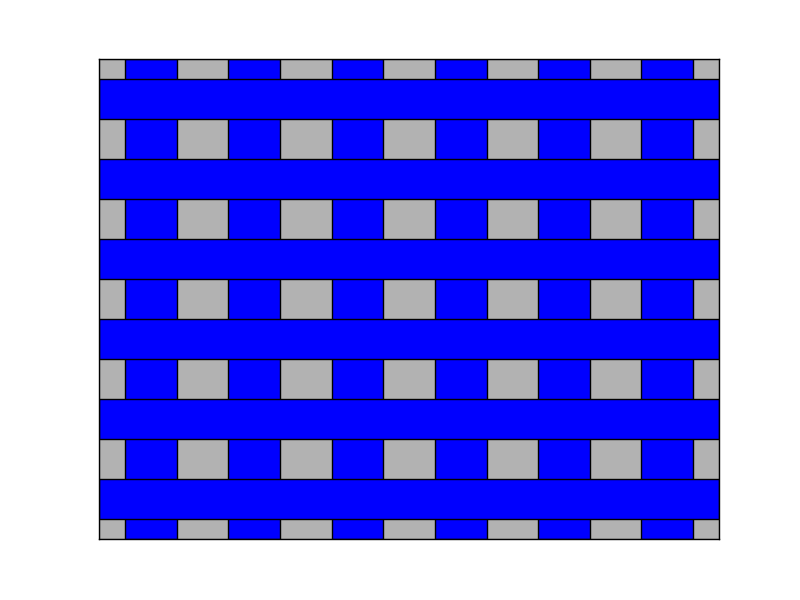
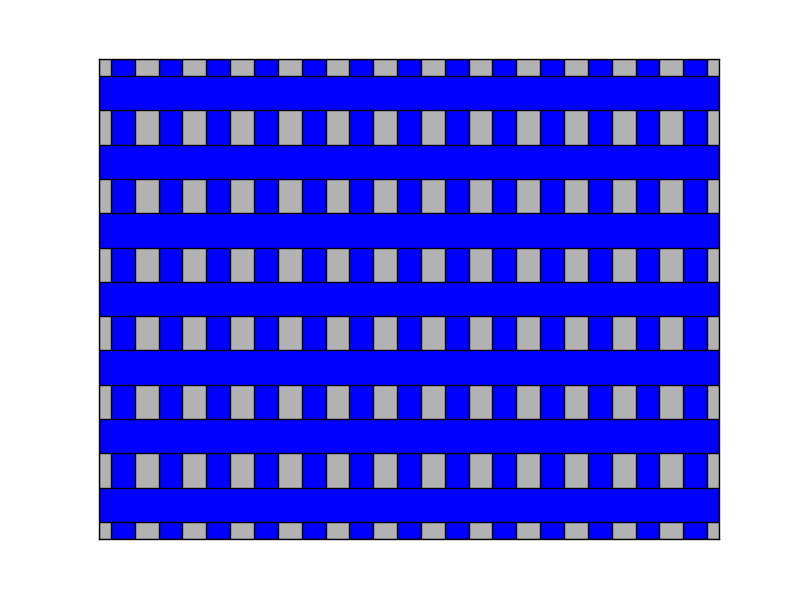
Encuesta con nuevos objetos

diff --git a/levels/interaccionParejas/game/client_types/player.js b/levels/interaccionParejas/game/client_types/player.js
@@ -537,25 +537,16 @@
         tipoObjetoEncuesta[3] = 'xol';
         tipoObjetoEncuesta[4] = 'xol';
         tipoObjetoEncuesta[5] = 'xol';
-        tipoObjetoEncuesta[6] = 'xol';
-        tipoObjetoEncuesta[7] = 'xol';
-        tipoObjetoEncuesta[8] = 'xol';
-        tipoObjetoEncuesta[9] = 'Otro-R-B-Vpar-Hpar';
-        tipoObjetoEncuesta[10] = 'Otro-R-B-Vpar-Hpar';
-        tipoObjetoEncuesta[11] = 'Otro-R-B-Vimp-Himp';
-        tipoObjetoEncuesta[12] = 'Otro-R-B-Vimp-Himp';
-        tipoObjetoEncuesta[13] = 'dup';
-        tipoObjetoEncuesta[14] = 'dup';
-        tipoObjetoEncuesta[15] = 'dup';
-        tipoObjetoEncuesta[16] = 'dup';
-        tipoObjetoEncuesta[17] = 'dup';
-        tipoObjetoEncuesta[18] = 'dup';
-        tipoObjetoEncuesta[19] = 'dup';
-        tipoObjetoEncuesta[20] = 'dup';
-        tipoObjetoEncuesta[21] = 'Otro-A-G-Vimp-Hpar';
-        tipoObjetoEncuesta[22] = 'Otro-A-G-Vimp-Hpar';
-        tipoObjetoEncuesta[23] = 'Otro-A-G-Vpar-Himp';
-        tipoObjetoEncuesta[24] = 'Otro-A-G-Vpar-Himp';
+        tipoObjetoEncuesta[6] = 'dup';
+        tipoObjetoEncuesta[7] = 'dup';
+        tipoObjetoEncuesta[8] = 'dup';
+        tipoObjetoEncuesta[9] = 'dup';
+        tipoObjetoEncuesta[10] = 'dup';
+        tipoObjetoEncuesta[11] = 'Otro-R-B-VP-HP';
+        tipoObjetoEncuesta[12] = 'Otro-R-B-VP-HP';
+        tipoObjetoEncuesta[13] = 'Otro-A-B-VP-HP';
+        tipoObjetoEncuesta[14] = 'Otro-A-G-VI-HI';
+        tipoObjetoEncuesta[15] = 'Otro-A-G-VI-HI';
 
         var modal = W.getElementById('notif');
         var cierre = W.getElementById("cierre");
@@ -563,7 +554,7 @@
         var x, objeto;
         var contador = 0;
         console.log(contador + 1 + '/15');
-        x = Math.floor(Math.random() * 24) + 1;
+        x = Math.floor(Math.random() * 14) + 1;
         objeto = tipoObjetoEncuesta[x];
         W.getElementById("imgvar").src="Images/Encuesta/objeto_encuesta" + x + ".png";
         W.getElementById('CheckZab').checked=false;
@@ -588,7 +579,7 @@
           W.getElementById('CheckDup').checked=false;
           //W.getElementById('encuesta').style.display = "";
 
-          x = Math.floor(Math.random() * 24) + 1;
+          x = Math.floor(Math.random() * 14) + 1;
           objeto = tipoObjetoEncuesta[x];
           W.getElementById("imgvar").src="Images/Encuesta/objeto_encuesta" + x + ".png";
 

diff --git a/public/Images/Encuesta/crea_objetos.py b/public/Images/Encuesta/crea_objetos.py
@@ -74,39 +74,98 @@ def dibuja_objeto(tipoPoligono, \
 
     fig4.savefig("objeto_encuesta" + str(id) + ".png")
 
-
-# Xol:
-# tipoPoligono = False # Fondo blanco
-# colorRayas = False # Rojo
-# paridadVerticales = True # impar
-# paridadHorizontales = False # par
-#
-# Dup:
-tipoPoligono = True # Fondo gris
-colorRayas = True # Azul
-paridadVerticales = False # par
-paridadHorizontales = False # par
-#
-
 # True: Fondo gris; False: Fondo blanco
 # tipoPoligono = choice([False, True])
-# tipoPoligono = False
-
+#
 # True: Azul; False: Rojo
 # colorRayas = choice([False, True])
-# colorRayas = True
-
+#
 # True: Impar; False: Par
 # paridadVerticales = choice([False, True])
-# paridadVerticales = False
-
+#
 # True: Impar; False: Par
 # paridadHorizontales = choice([False, True])
-# paridadHorizontales = True
 
-numObjetosInicial = 23
-numObjetosFinal = 24
+# Creo los XOL, que tienen rayas rojas y una cantidad impar de rayas verticales
+colorRayas = False # Rayas de color rojo
+tipoPoligono = False # Fondo blanco
+paridadVerticales = True # Impar
+paridadHorizontales = False # Par
+numObjetosInicial = 1
+numObjetosFinal = 2
+#
+for cont in range(numObjetosInicial, numObjetosFinal + 1):
+    dibuja_objeto(tipoPoligono, \
+                  paridadHorizontales, \
+                  paridadVerticales, \
+                  colorRayas, cont)
 
+tipoPoligono = True # Fondo gris
+paridadHorizontales = True # Impar
+numObjetosInicial = 3
+numObjetosFinal = 5
+#
+for cont in range(numObjetosInicial, numObjetosFinal + 1):
+    dibuja_objeto(tipoPoligono, \
+                  paridadHorizontales, \
+                  paridadVerticales, \
+                  colorRayas, cont)
+
+# Creo los DUP, que tienen fondo gris y una cantidad par de rayas horizontales
+colorRayas = True # Rayas de color azul
+tipoPoligono = True # Fondo gris
+paridadVerticales = True # Impar
+paridadHorizontales = False # Par
+numObjetosInicial = 6
+numObjetosFinal = 7
+#
+for cont in range(numObjetosInicial, numObjetosFinal + 1):
+    dibuja_objeto(tipoPoligono, \
+                  paridadHorizontales, \
+                  paridadVerticales, \
+                  colorRayas, cont)
+
+colorRayas = False # Rayas de color rojo
+paridadVerticales = False # Par
+numObjetosInicial = 8
+numObjetosFinal = 10
+#
+for cont in range(numObjetosInicial, numObjetosFinal + 1):
+    dibuja_objeto(tipoPoligono, \
+                  paridadHorizontales, \
+                  paridadVerticales, \
+                  colorRayas, cont)
+
+# Creo los distractores
+colorRayas = False # Rayas de color rojo
+tipoPoligono = False # Fondo blanco
+paridadVerticales = False # Par
+paridadHorizontales = False # Par
+numObjetosInicial = 11
+numObjetosFinal = 12
+#
+for cont in range(numObjetosInicial, numObjetosFinal + 1):
+    dibuja_objeto(tipoPoligono, \
+                  paridadHorizontales, \
+                  paridadVerticales, \
+                  colorRayas, cont)
+
+colorRayas = True # Rayas de color azul
+paridadVerticales = True # Impar
+numObjetosInicial = 13
+numObjetosFinal = 13
+#
+for cont in range(numObjetosInicial, numObjetosFinal + 1):
+    dibuja_objeto(tipoPoligono, \
+                  paridadHorizontales, \
+                  paridadVerticales, \
+                  colorRayas, cont)
+
+tipoPoligono = True # Fondo gris
+paridadHorizontales = True # Impar
+numObjetosInicial = 14
+numObjetosFinal = 15
+#
 for cont in range(numObjetosInicial, numObjetosFinal + 1):
     dibuja_objeto(tipoPoligono, \
                   paridadHorizontales, \

diff --git a/public/Images/Encuesta-bk/crea_objetos.py b/public/Images/Encuesta-bk/crea_objetos.py
@@ -1,0 +1,114 @@
+#-*-coding: utf-8-*-
+
+print "loading packages..."
+import numpy as np
+from random import randint, choice
+import matplotlib.pyplot as plt
+import matplotlib.patches as patches
+print "Ready!"
+
+def dibuja_objeto(tipoPoligono, \
+                  paridadHorizontales, \
+                  paridadVerticales, \
+                  colorRayas, id):
+
+    if paridadVerticales:
+        numVerticales = 2 * randint(3,6) + 1
+    else:
+        numVerticales = 2 * randint(3,6)
+
+    print u"Número de líneas verticales: ", numVerticales
+
+    if paridadHorizontales:
+        numHorizontales = 2 * randint(3,6) + 1
+    else:
+        numHorizontales = 2 * randint(3,6)
+
+    print u"Número de líneas horizontales: ", numHorizontales
+
+    fig4, axes4 = plt.subplots()
+    axes4.get_xaxis().set_visible(False)
+    axes4.get_yaxis().set_visible(False)
+
+    tangulos = []
+    if colorRayas:
+        colorRaya = "blue"
+    else:
+        colorRaya = "red"
+
+    tileColor = colorRaya
+
+    if tipoPoligono:
+        tangulos.append(patches.Rectangle(*[(0, 0), 1, 1],\
+                                    facecolor="black", alpha=0.3))
+
+    step = 1. / (2 * numVerticales)
+
+    raya = True
+    for j in range(0, 2 * numVerticales - 1):
+        by_x = j * step
+        print "by_x: " + str(by_x)
+        if raya:
+            raya = False
+            tangulos.append(patches.Rectangle(*[(step/2 + by_x, 0), step, 1],\
+                facecolor=tileColor))
+        else:
+            raya = True
+
+
+    step = 1. / (2 * numHorizontales)
+
+    raya = True
+    for j in range(0, 2 * numHorizontales - 1):
+        by_y = j * step
+        print "by_y: " + str(by_y)
+        if raya:
+            tangulos.append(patches.Rectangle(*[(0, step/2 + by_y), 1, step],\
+                facecolor=tileColor))
+            raya = False
+        else:
+            raya = True
+
+    for t in tangulos:
+        axes4.add_patch(t)
+
+    fig4.savefig("objeto_encuesta" + str(id) + ".png")
+
+
+# Xol:
+# tipoPoligono = False # Fondo blanco
+# colorRayas = False # Rojo
+# paridadVerticales = True # impar
+# paridadHorizontales = False # par
+#
+# Dup:
+tipoPoligono = True # Fondo gris
+colorRayas = True # Azul
+paridadVerticales = False # par
+paridadHorizontales = False # par
+#
+
+# True: Fondo gris; False: Fondo blanco
+# tipoPoligono = choice([False, True])
+# tipoPoligono = False
+
+# True: Azul; False: Rojo
+# colorRayas = choice([False, True])
+# colorRayas = True
+
+# True: Impar; False: Par
+# paridadVerticales = choice([False, True])
+# paridadVerticales = False
+
+# True: Impar; False: Par
+# paridadHorizontales = choice([False, True])
+# paridadHorizontales = True
+
+numObjetosInicial = 23
+numObjetosFinal = 24
+
+for cont in range(numObjetosInicial, numObjetosFinal + 1):
+    dibuja_objeto(tipoPoligono, \
+                  paridadHorizontales, \
+                  paridadVerticales, \
+                  colorRayas, cont)
